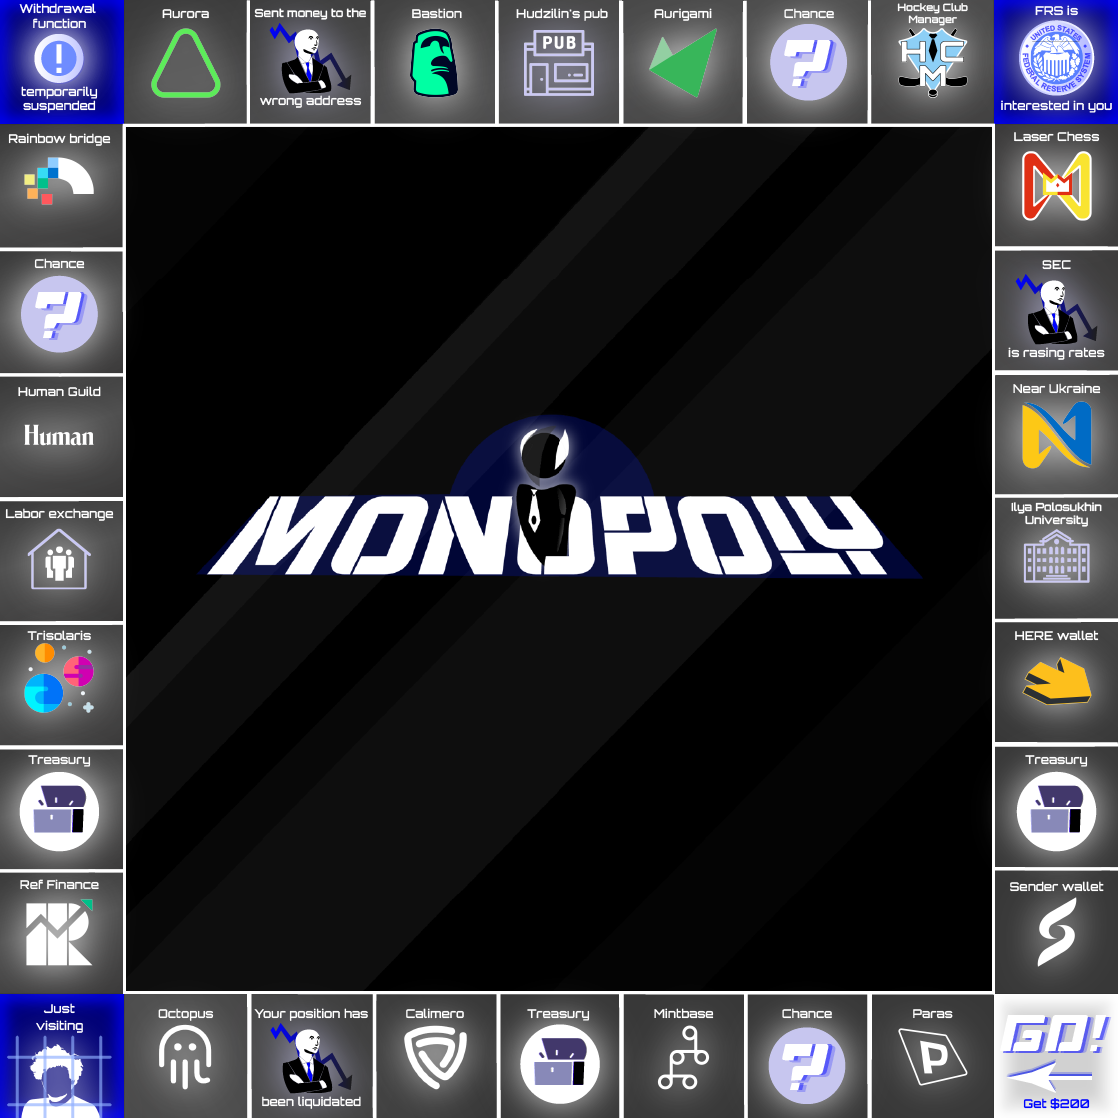
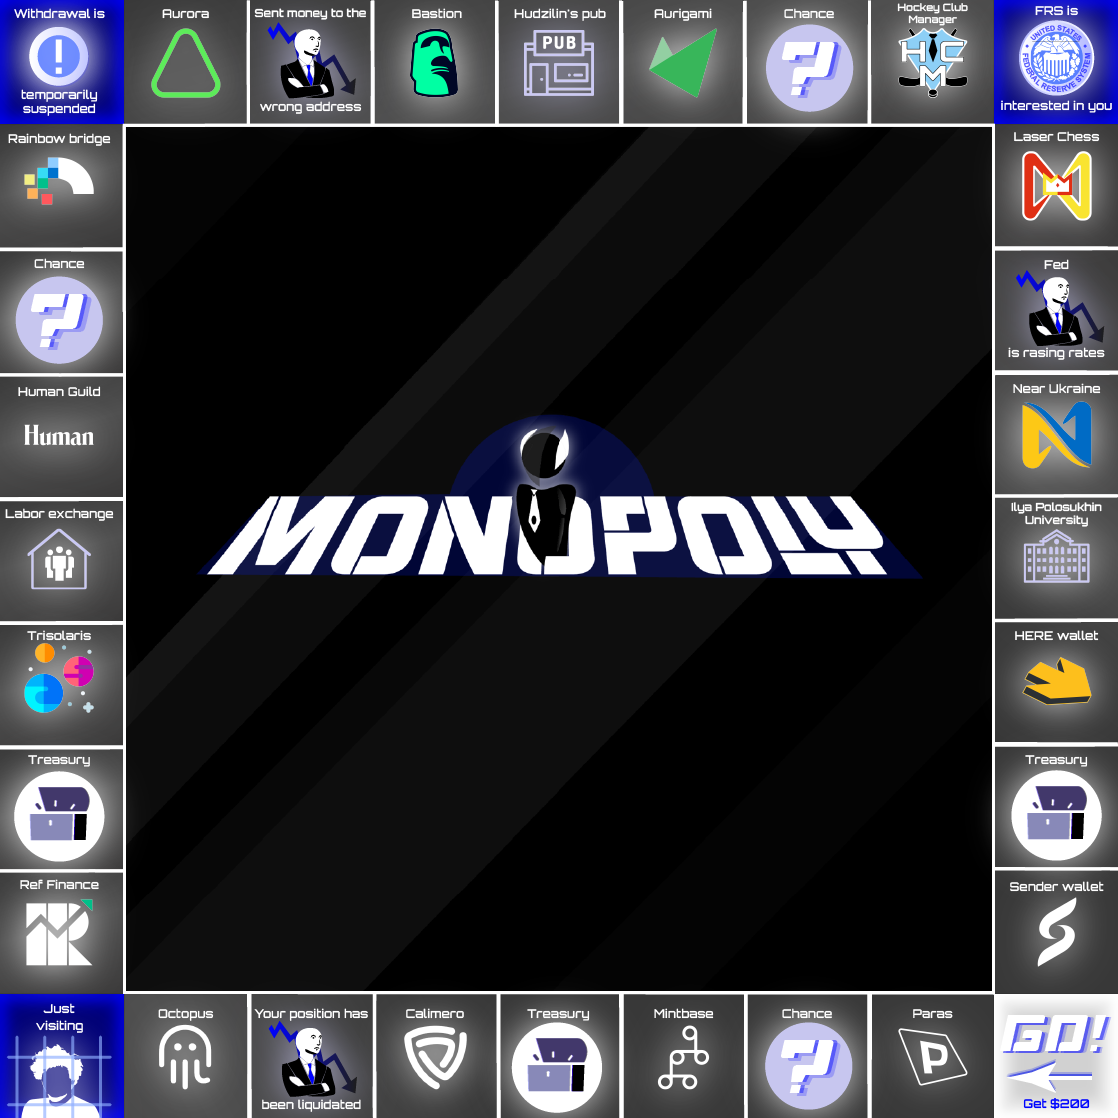
On hover popup seems to be done

diff --git a/src/components/ui/CellInfoPopup.tsx b/src/components/ui/CellInfoPopup.tsx
@@ -20,14 +20,14 @@ const CategoryContainer = styled.div`
   display: flex;
   flex-direction: row;
   justify-content: space-between;
-  margin: 0 50px;
+  margin: 0 30px;
   padding-top: 20px;
 `;
 
 const CategoryImg = styled.img`
   width: 26px;
   height: 26px;
-  margin-left: -15px;
+  //margin-left: -15px;
   filter: invert(1);
 `;
 
@@ -76,7 +76,7 @@ const OwnerText = styled.span`
 
 const ProjectStageText = styled.p`
   font-family: Orbitron;
-  font-size: 10px;
+  font-size: 14px;
   color: #fff;
   text-align: left;
   margin: 1px;
@@ -89,8 +89,8 @@ const ProjectDataContainer = styled.div`
   flex-direction: column;
   font-family: Orbitron;
   color: #fff;
-  margin-top: 80px;
-  margin-bottom: 20px;
+  margin-top: 45px;
+  margin-bottom: 30px;
 `;
 
 const GameDataContainer = styled.div`

diff --git a/src/game/GameConfig.ts b/src/game/GameConfig.ts
@@ -157,7 +157,7 @@ export function getTiles(players: Array<Player>): Array<Tile> {
         240,
     ),
     new ParkingTile(
-        'Withdraw function is temporarily suspended',
+        'Withdraw is temporarily suspended',
         [],
         null,
     ),
@@ -214,7 +214,7 @@ export function getTiles(players: Array<Player>): Array<Tile> {
       140,
     ),
     new TaxTile(
-        'SEC is raising rates',
+        'Fed is raising rates',
         [],
         null,
         200,
@@ -226,7 +226,7 @@ export function getTiles(players: Array<Player>): Array<Tile> {
         100,
     ),
     new RailroadTile(
-        'Ilya Polosukhin University',
+        'Polosukhin University',
         [],
         null,
         200,
